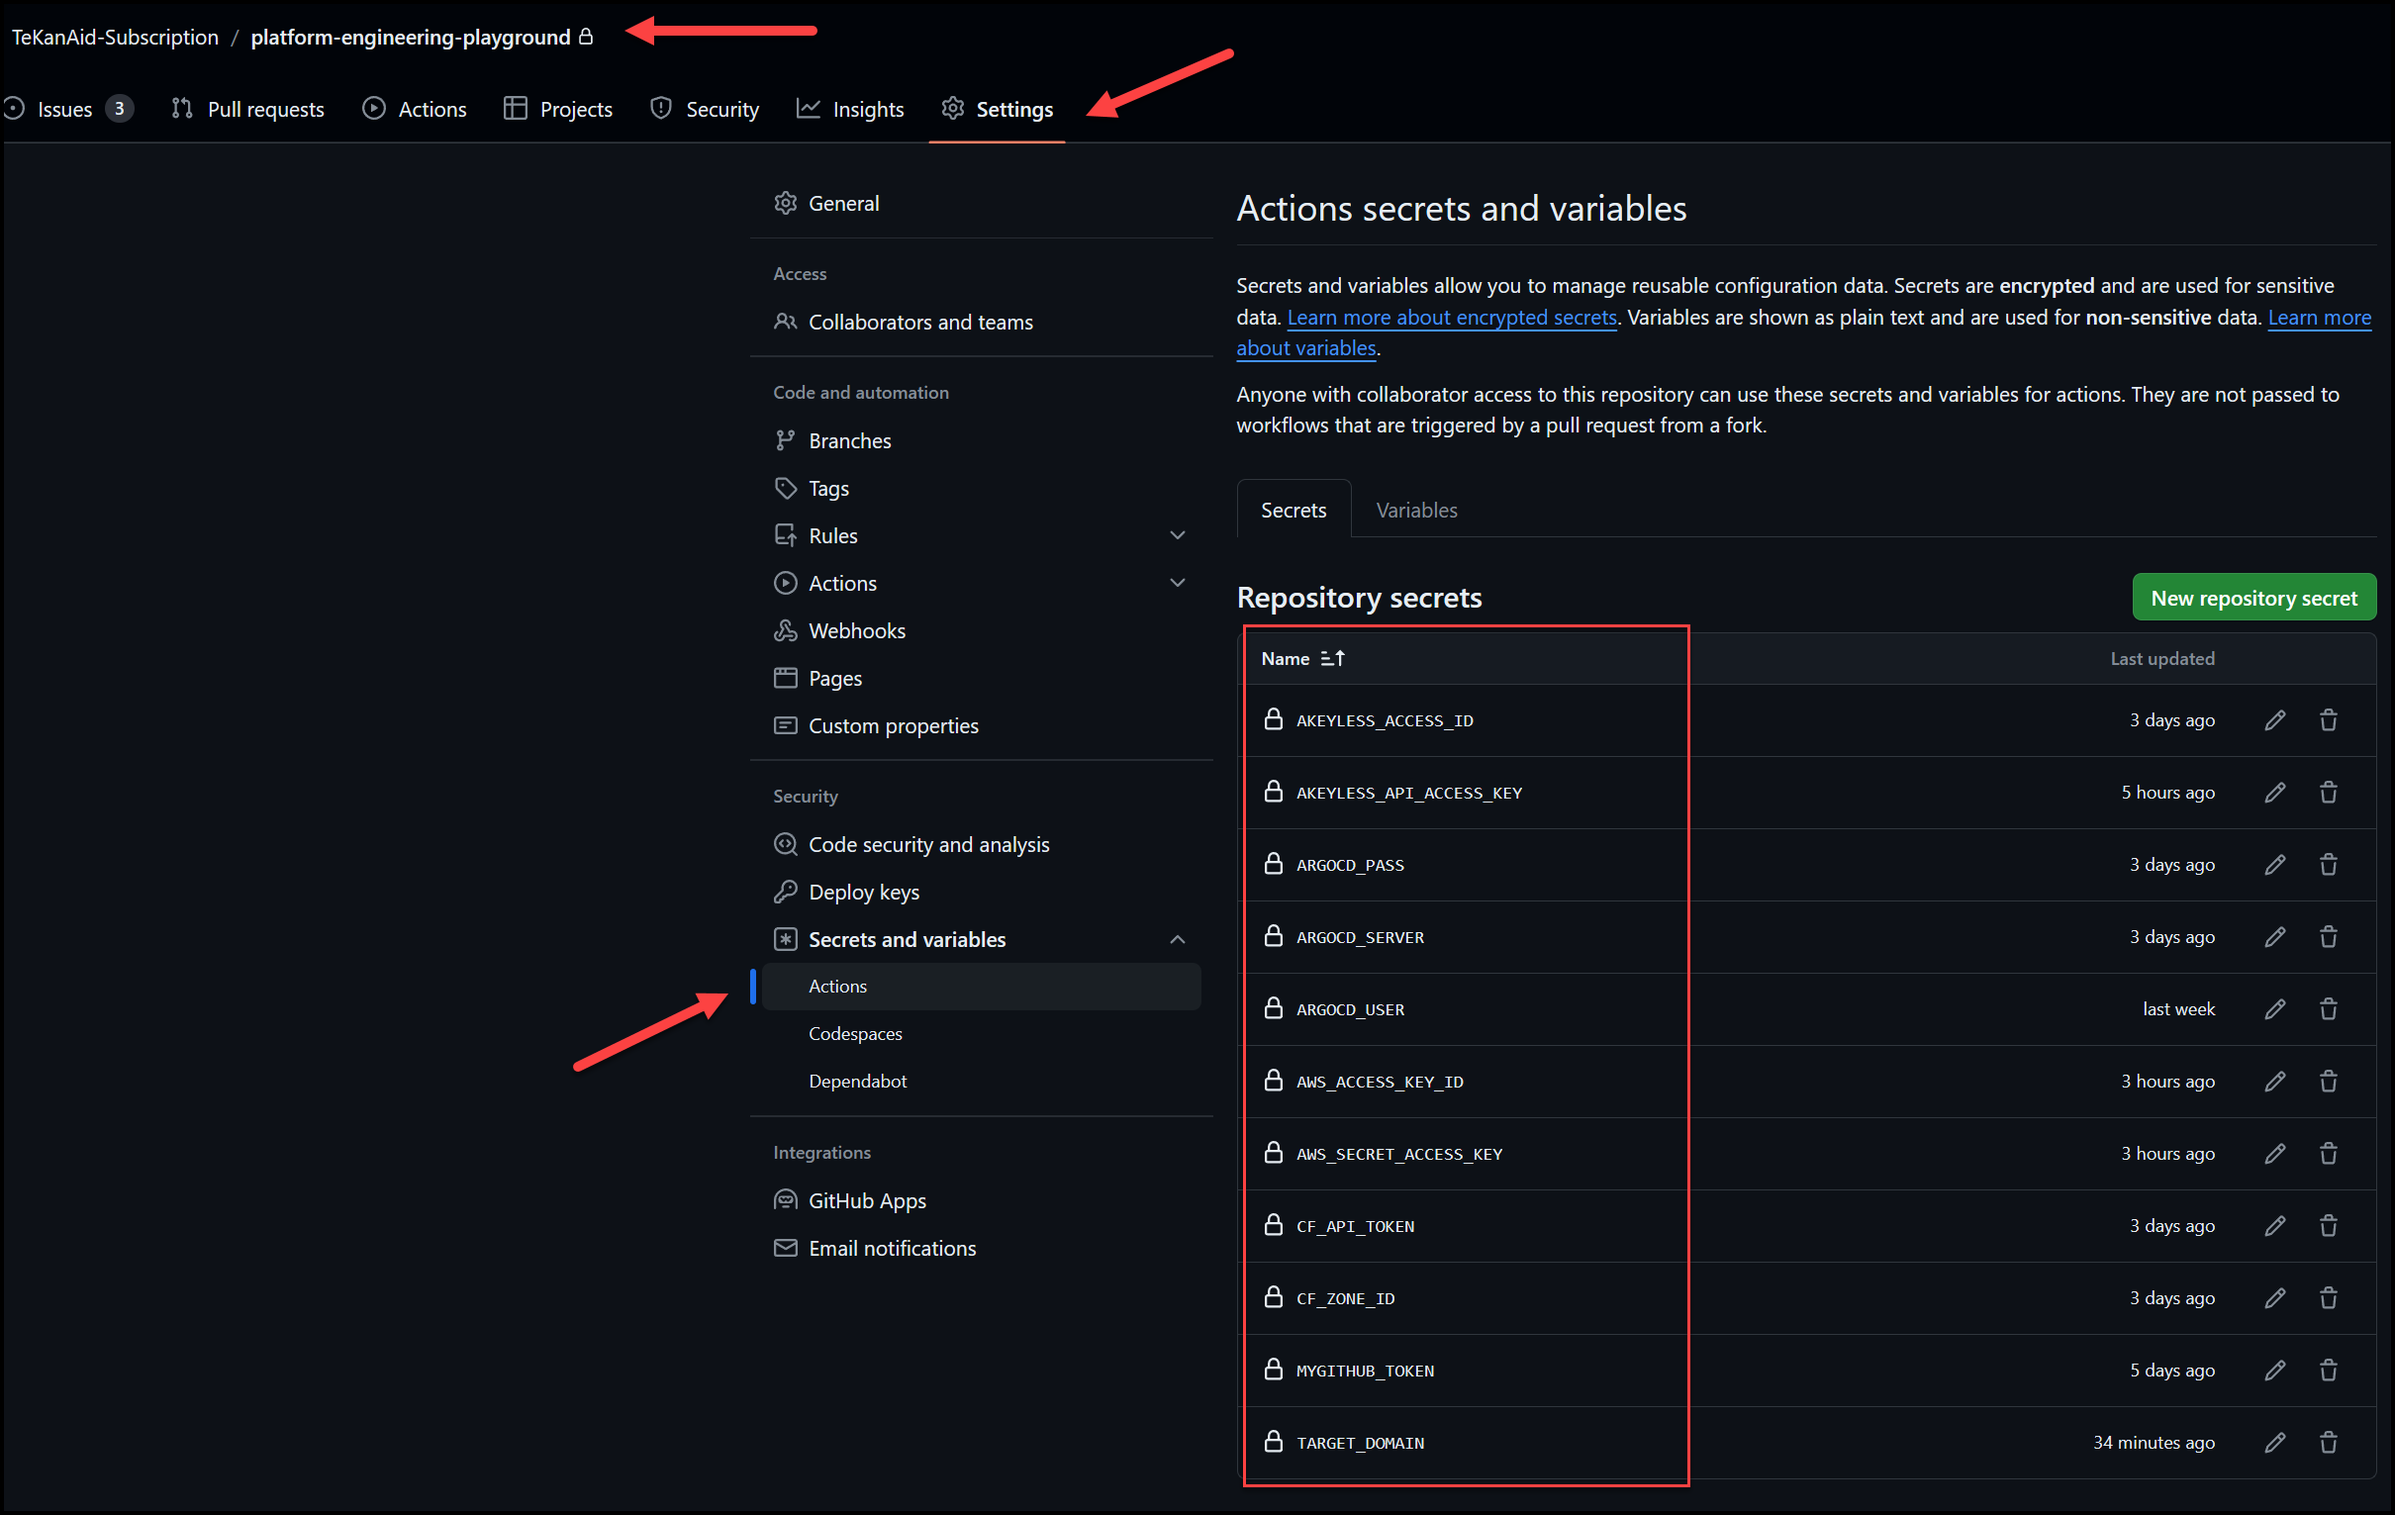
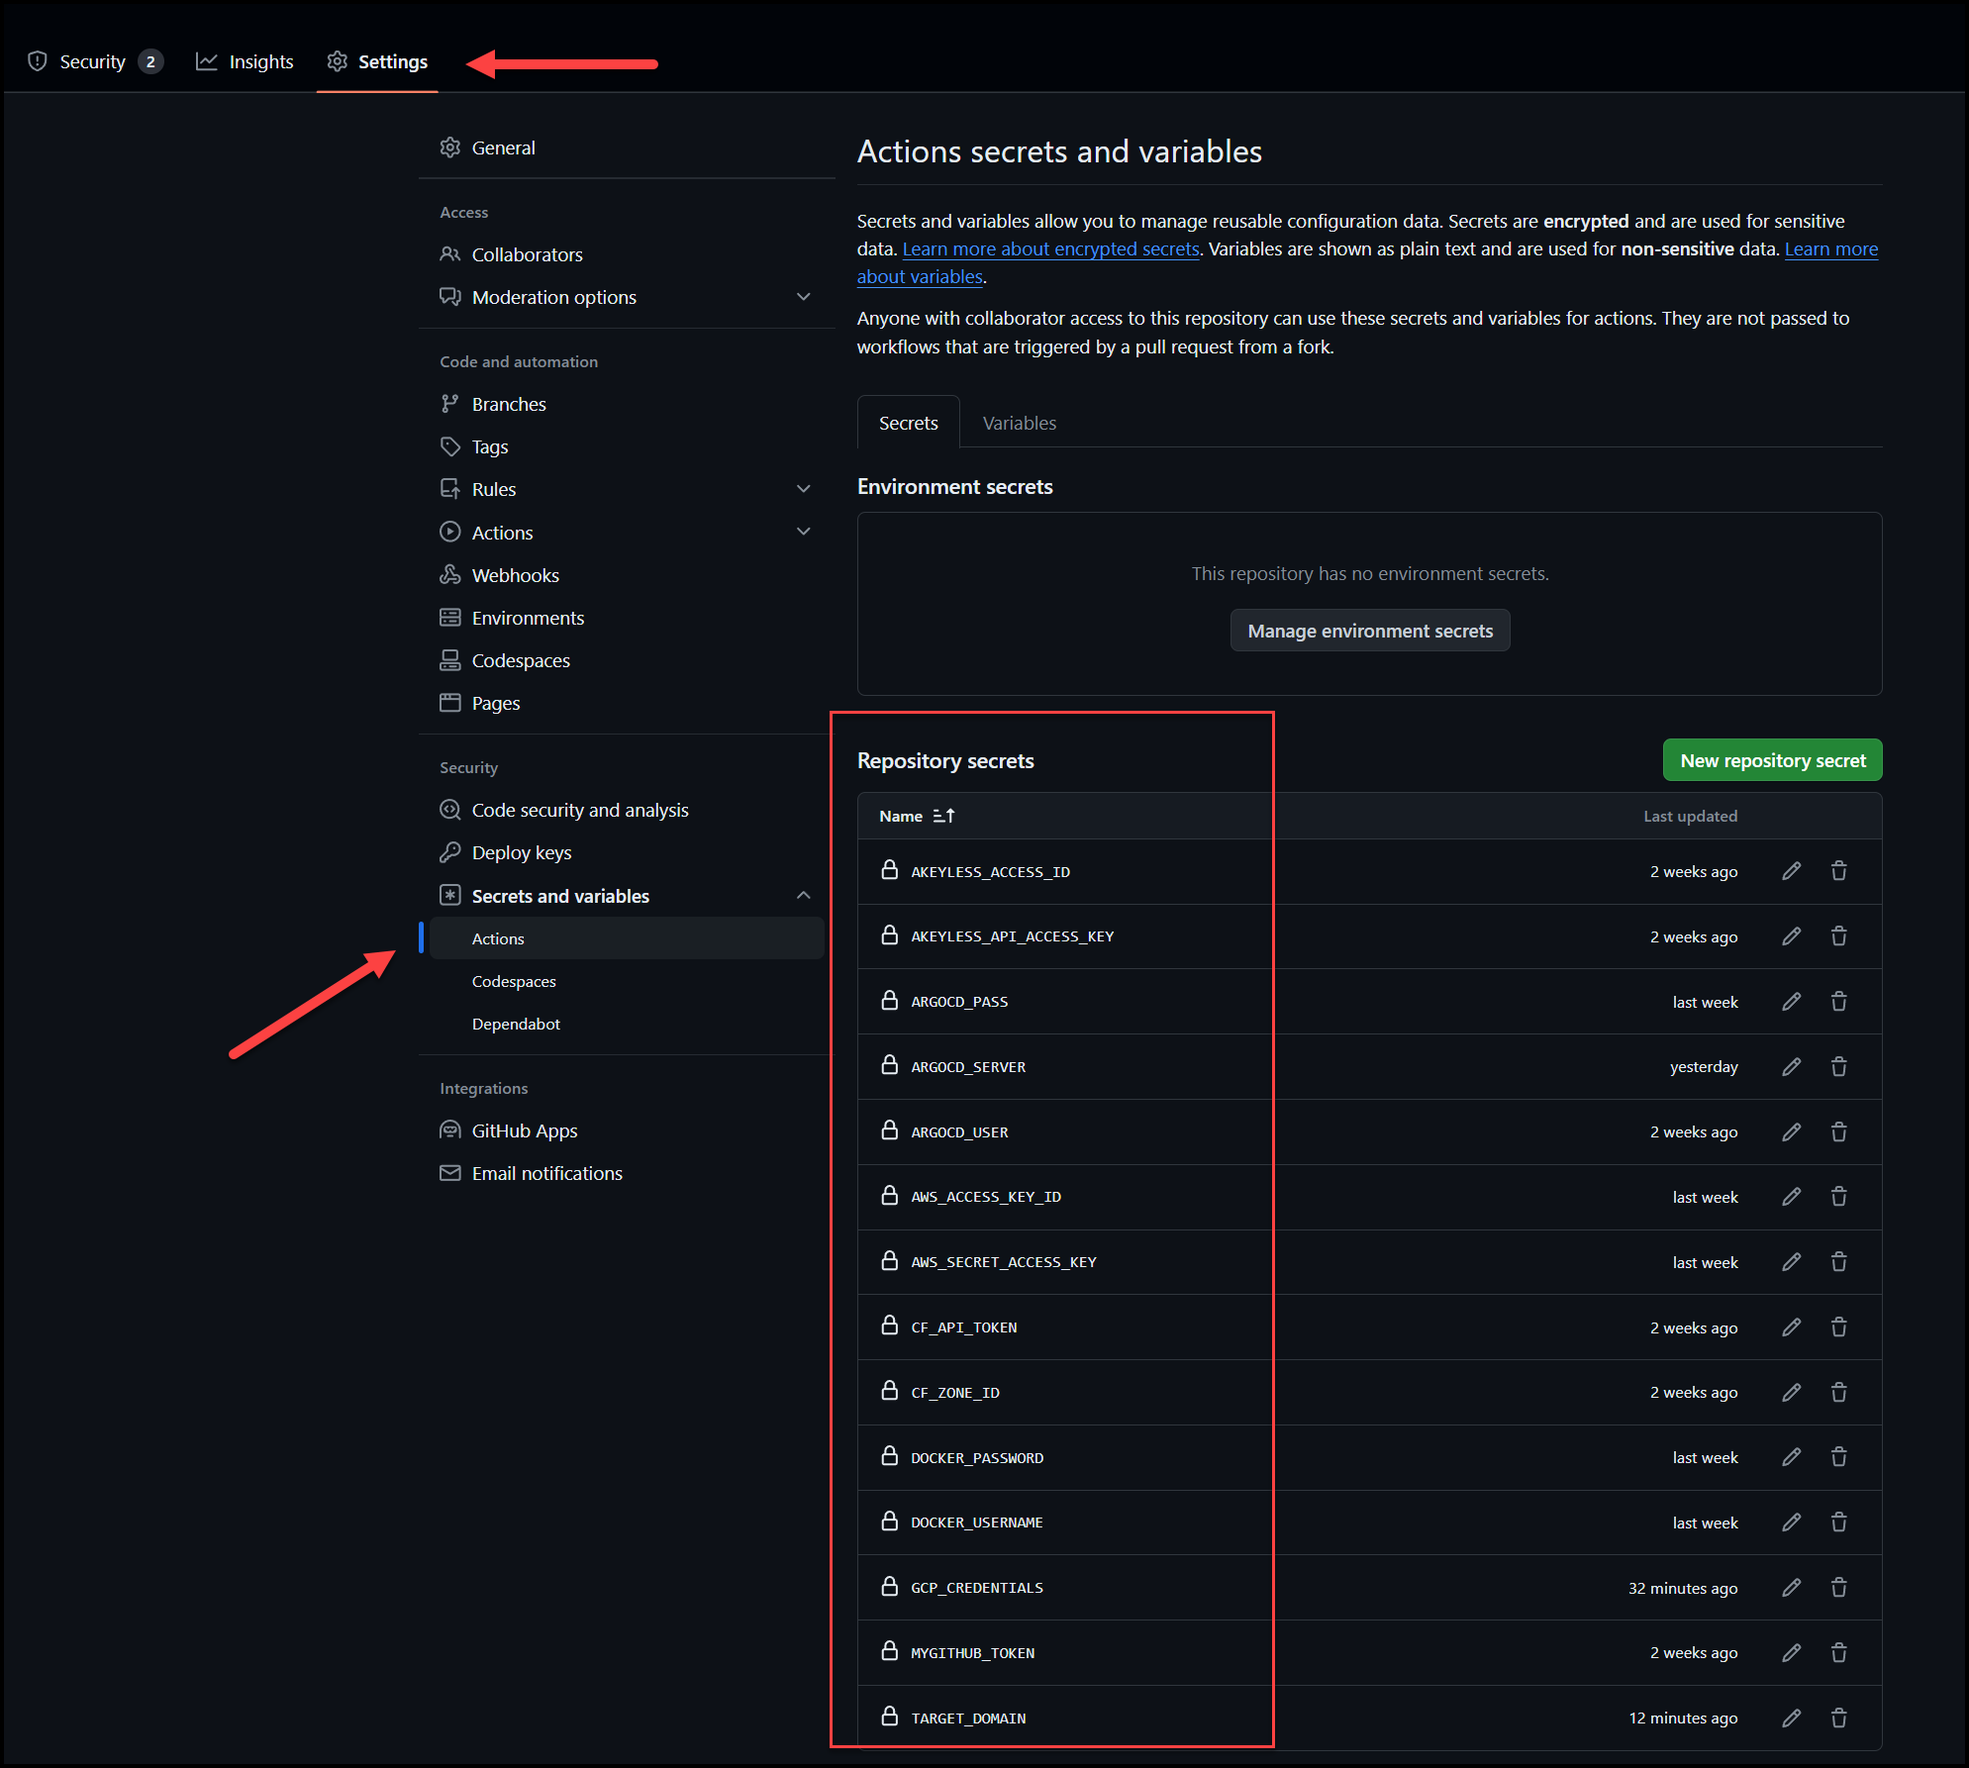
update instructions

diff --git a/README.md b/README.md
@@ -6,6 +6,7 @@ This repo is used for demoing vCluster in a Platform Engineering Playground. Too
 - Crossplane
 - Backstage
 - AWS
+- GCP
 - GitHub Actions
 - vClusters
 
@@ -113,8 +114,10 @@ These are the secrets:
 ARGOCD_USER -> admin
 - AWS_ACCESS_KEY_ID and AWS_SECRET_ACCESS_KEY -> AWS credentials to access the EKS cluster and generate vClusters
 - CF_API_TOKEN and CF_ZONE_ID -> Credentials and Zone ID to access Cloudflare and create DNS records for the vClusters
+- DOCKER_USERNAME and DOCKER_PASSWORD -> These are optional if you want to build your own Backstage image and push it to Docker Hub.
+- GCP_CREDENTIALS -> Credentials to access GCP to eventually drop the vCluster Kubeconfig in a static secret in Akeyless.
 - MYGITHUB_TOKEN -> you will need to create a Classic GitHub token from developer settings as shown in the next two images, or use the same one you have for Backstage in the `backstage/my-backstage-app/secrets.sh` file.
-- TARGET_DOMAIN -> this is the hostname of the LoadBalancer that Traefik's ingressRouteTCP creates to access the vClusters. (You will fill this out later after you create the EKS cluster.)
+- TARGET_DOMAIN -> this is the hostname of the LoadBalancer that Traefik's ingressRouteTCP creates to access the vClusters. In case of EKS it's a hostname and in case of GKE it's an IP. (You will fill this out later after you create the EKS cluster.)
 
 ![Developer Settings](images/GitHub_Token_Settings.png)
 ![Token Scopes](images/GitHub_Token_Scopes.png)
@@ -195,7 +198,11 @@ spec:
     | kubectl apply --filename -
 ```
 
-## Create EKS Cluster with Crossplane
+## Create K8s Clusters with Crossplane
+
+### EKS
+
+#### Create the Cluster
 
 You could create an EKS cluster directly as shown below or use backstage template to to do that which will use ArgoCD. The backstage template is explained later on.
 
@@ -206,9 +213,7 @@ kubectl --namespace infra get clusterclaims
 kubectl get managed
 ```
 
-### Access the Cluster
-
-#### AWS
+#### Access the Cluster
 
 ```bash
 kubectl get secret a-team-eks-cluster -o jsonpath='{.data.kubeconfig}' | base64 -d > eks-kubeconfig.yaml
@@ -217,20 +222,32 @@ kubectl get nodes
 kubectl get namespaces
 ```
 
-#### GCP
+### GCP
+
+#### Create the Cluster
+
+You could create an GKE cluster directly as shown below or use backstage template to to do that which will use ArgoCD. The backstage template is explained later on.
+
+```bash
+kubectl create namespace infra
+kubectl --namespace infra apply --filename ./crossplane/gke_claim.yaml
+kubectl --namespace infra get clusterclaims
+kubectl get managed
+```
 
 To get the kubeconfig:
 
 ```bash
-gcloud container clusters get-credentials samgke2 --region us-east1 --project crossplaneprojects
+gcloud container clusters get-credentials samgke --region us-east1 --project crossplaneprojects
 ```
 
-## Delete the EKS Cluster with Crossplane
+## Delete the K8s Cluster with Crossplane
 
 ```bash
 kubectl --namespace infra delete \
     --filename ./crossplane/eks_claim.yaml
-
+kubectl --namespace infra delete \
+    --filename ./crossplane/gke_claim.yaml
 kubectl get managed
 
 # Wait until all the resources are deleted (ignore `object` and
@@ -305,18 +322,18 @@ But let's register a new one directly from the UI.
 
 Click the `Create` button in the left naviation pane and then click the button called: `REGISTER EXISTING COMPONENT`
 
-Enter the URL below where our EKS-Cluster-Crossplane template exists:
+Enter the URL below where our K8s-Cluster-Crossplane template exists:
 ```
-https://github.com/TeKanAid-Subscription/platform-engineering-playground/blob/main/backstage/my-backstage-app/packages/backend/templates/eks-cluster-crossplane/template.yaml
+https://github.com/TeKanAid-Subscription/platform-engineering-playground/blob/main/backstage/my-backstage-app/packages/backend/templates/generic-k8s-cluster/template.yaml
 ```
 
 Then once you've registered this template, you can now access it by clicking the `Create` button on the left navigation pane and selecting that template.
 
-You can now create an EKS cluster with crossplane using Backstage. Here is the workflow:
+You can now create a K8s cluster with crossplane using Backstage. Here is the workflow:
 
 Backstage -> GitHub Actions -> ArgoCD -> Crossplane -> you will end up with a secret in the newly created namespace in your cluster with the kubeconfig for the EKS cluster. 
 
-You can check the progress of the EKS cluster creation by running the following commands:
+You can check the progress of the K8s cluster creation by running the following commands:
 ```bash
 kubens <your-cluster-name>
 kubectl get managed
@@ -329,6 +346,14 @@ kubectl get secret a-team-eks-cluster -o jsonpath='{.data.kubeconfig}' | base64 
 export KUBECONFIG=$(pwd)/eks-kubeconfig.yaml
 kubectl get nodes
 kubectl get namespaces
+```
+
+In the case of a GKE cluster you can access the cluster using the following
+
+To get the kubeconfig:
+
+```bash
+gcloud container clusters get-credentials samgke --region us-east1 --project crossplaneprojects
 ```
 
 #### Register the New Cluster in ArgoCD
@@ -349,39 +374,61 @@ argocd cluster add my-new-eks-cluster --name eks-dev
 
 ### Add the Target Domain
 
-As platform engineers, we need to add the Target Domain to GitHub Actions secrets. The Target Domain is the hostname of the LoadBalancer that Traefik's ingressRouteTCP creates to access the vClusters. 
+As platform engineers, we need to add the Target Domain to GitHub Actions secrets. The Target Domain is the hostname of the LoadBalancer that Traefik's ingressRouteTCP creates to access the vClusters in the case of EKS. In the case of GKE, it will be an IP address.
 
 To get the value, run the following command:
 
 ```bash
+# For EKS
 kubectl get svc traefik -n traefik -o=jsonpath='{.status.loadBalancer.ingress[0].hostname}'
+# For GKE
+kubectl get svc traefik -n traefik -o=jsonpath='{.status.loadBalancer.ingress[0].ip}'
 ```
 
 Now add this value to the `TARGET_DOMAIN` GitHub Actions secret.
 
-### Add the new EKS Cluster Endpoint to Backstage Template
+### Add Parameter Values to the Backstage vCluster Template
 
-As platform engineers, we need to add the endpoint for our EKS cluster inside our new vCluster template in Backstage.
+As platform engineers, we need to add some values to variables in the Backstage vCluster template.
 
-You can get the value of the endpoint from ArgoCD under settings > clusters and get the server URL under General.
+ add the endpoint for our K8s cluster inside our new vCluster template in Backstage.
 
-Now update the `backstage/my-backstage-app/packages/backend/templates/vcluster/template.yaml` file with the new endpoint under `enum` in the `k8sHostClusterURLforArgo` field. Here is an example below.
+These are the parameters that you will need to update based on your situation.
+
+- hostEKSClusterName
+- hostEKS_URLforArgo
+- hostGKEClusterName
+- hostGKEprojectName
+- hostGKE_URLforArgo
+- hostAKSClusterName
+- hostAKS_URLforArgo
+
+They are straight forward. Just note that the `hostEKS_URLforArgo`, `hostGKE_URLforArgo`, and `hostAKS_URLforArgo` parameters are the endpoints for our host K8s clusters. You can get the value of the endpoints from ArgoCD under settings > clusters and get the server URL under General.
+
+Also remember to update  the appropriate parameters for your GitHub actions workflow name, the repo and branch name.
+
+Here is an example:
 
 ```yaml
-       k8sHostClusterURLforArgo:
-          title: The host cluster to use
-          type: string
-          description: The host cluster to use
-          enum:
-            - https://196C767B331BAA2B637123CC80FE1622.gr7.us-east-1.eks.amazonaws.com
-```
-
-Also remember to update the `github-action` step in the template with the appropriate parameters for your GitHub actions workflow name, the repo and branch name. Here is an example below.
-
-```yaml
+    - id: github-action
+      name: Trigger GitHub Action
+      action: github:actions:dispatch
+      input:
         workflowId: vcluster_deploy.yaml
-        repoUrl: 'github.com?repo=vcluster-demos&owner=tekanaid'
-        branchOrTagName: 'master'
+        repoUrl: 'github.com?repo=vcluster-demos&owner=tekanaid' # update this
+        branchOrTagName: 'master' # update this
+        workflowInputs:
+          clusterName: ${{ parameters.clusterName }}
+          repoURLforArgo: ${{ steps['publish'].output.remoteUrl }}
+          hostClusterType: ${{ parameters.hostClusterType | string}}
+          # You will need to make updates to all the parameters below.
+          hostEKSClusterName: eks-host-cluster
+          hostEKS_URLforArgo: https://5D795F1CE2F22C3B3BB93E19AA666DF4.gr7.us-east-1.eks.amazonaws.com
+          hostGKEClusterName: samgke
+          hostGKEprojectName: crossplaneprojects
+          hostGKE_URLforArgo: https://34.23.68.174
+          hostAKSClusterName: aks-host-cluster
+          hostAKS_URLforArgo: https://
 ```
 
 ### Register a New vCluster Template in Backstage
